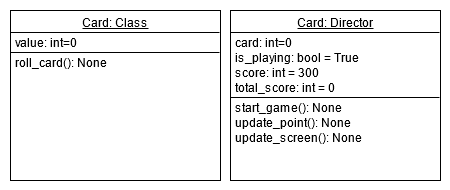
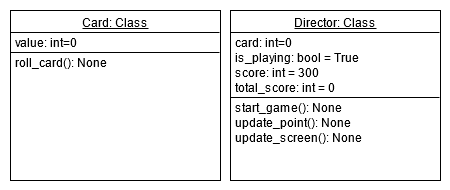
UPDATE design of the class, update the Director Class and update on README.md

Changed region(s): [[0.6533, 0.0789, 0.84, 0.1579]]

diff --git a/director.py b/director.py
@@ -1,4 +1,35 @@
 import card
 
 class Director:
-    pass 
+    """This Class will manage the flow of the game
+    and the update of the score in screen
+    """
+    def __init__(self) -> None:
+        """ This is the constructor of class
+        declaring the attributes to use in the game
+        """
+        self.total_score = 0
+        self.score = 300
+        self.is_playing = True
+        self.card = 0
+
+    def start_game(self):
+        """This Method will manage the flow of the 
+        game
+        """
+        pass
+
+
+    def update_point(self):
+        """This Method will update the score for
+        the player and the total score
+        """
+        pass
+
+    def update_screen():
+        """This Method will be printing on screen the
+        output for the game and the update during the game.
+        """
+        pass
+
+    pass

diff --git a/README.md b/README.md
@@ -1,1 +1,34 @@
 # Hilo Game
+
+
+## Overview
+---
+Hilo is a game in which the player guesses if the next card drawn by the dealer will be higher or lower than the previous one. Points are won or lost based on whether or not the player guessed correctly.
+
+## Rules
+---
+ Hilo is played according to the following rules.
+
+   - The player starts the game with 300 points.
+   - Individual cards are represented as a number from 1 to 13.
+   - The current card is displayed.
+   - The player guesses if the next one will be higher or lower.
+   - The the next card is displayed.
+   - The player earns 100 points if they guessed correctly.
+   - The player loses 75 points if they guessed incorrectly.
+   - If a player reaches 0 points the game is over.
+   - If a player has more than 0 points they decide if they want to keep playing.
+   - If a player decides not to play again the game is over.
+
+## Interface
+---
+![Interface of the Game](hilo-screenshot.png)
+
+## Design
+---
+We are going to organize our code in two classes Card y Director
+![Class Design](design.png)
+
+The Card class will be showing a card every time that is called.
+The Director Class will be managing the flow of the game and keeping track the score.
+
